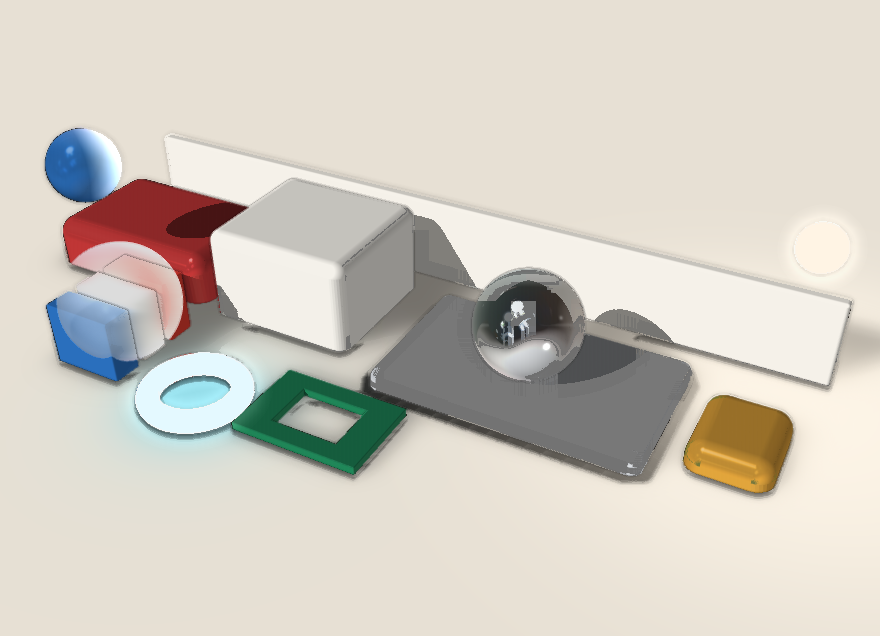
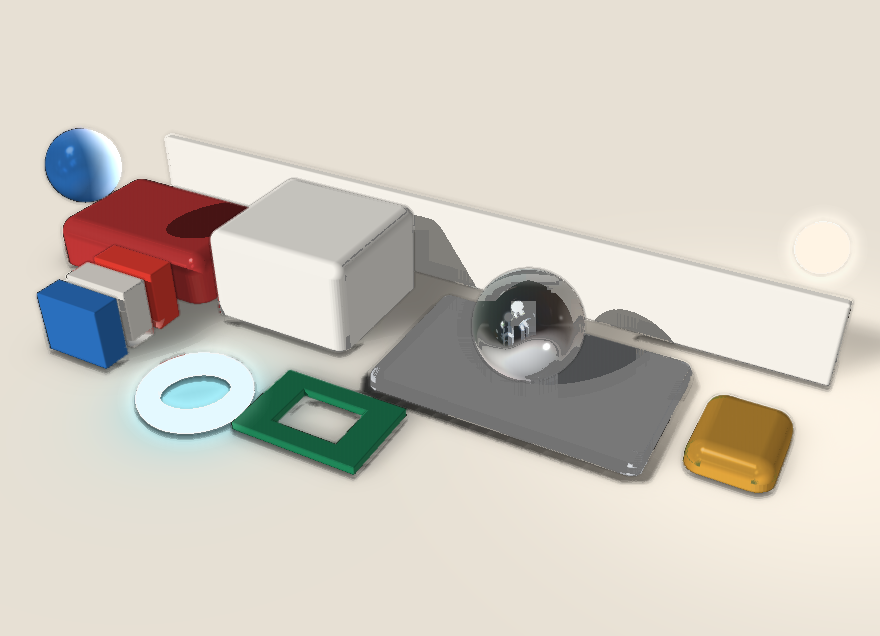
QUALITY-6 §9.2: shallow glass disk; flat overhead macbook.
Sphere refraction caused vertical bars; disk clears neon gate.
Deck depth 4 + orbit 4/38 foreshortens chrome lip.

Changed region(s): [[0.0307, 0.3585, 0.3068, 0.6274]]

diff --git a/scripts/gallery-3d.ts b/scripts/gallery-3d.ts
@@ -337,19 +337,20 @@ function buildPlates(): { sheet: string; title: string; cols: number; cells: Pla
           )
           .replace(
             '<rect id="stripe-red" x="210" y="200" width="36" height="78" depth="160" fill="#e23b2f" />',
-            '<rect id="stripe-red" x="200" y="210" width="70" height="28" depth="120" fill="#e23b2f" />',
+            '<rect id="stripe-red" x="178" y="200" width="70" height="28" depth="120" fill="#e23b2f" />',
           )
           .replace(
             '<rect id="stripe-white" x="246" y="200" width="36" height="78" depth="160" fill="#f7f4ee" />',
-            '<rect id="stripe-white" x="200" y="246" width="70" height="28" depth="120" fill="#e8e4dc" />',
+            '<rect id="stripe-white" x="178" y="236" width="70" height="28" depth="120" fill="#e8e4dc" />',
           )
           .replace(
             '<rect id="stripe-blue" x="282" y="200" width="36" height="78" depth="160" fill="#2a6fbe" />',
-            '<rect id="stripe-blue" x="200" y="282" width="70" height="28" depth="120" fill="#2a6fbe" />',
+            '<rect id="stripe-blue" x="178" y="272" width="70" height="28" depth="120" fill="#2a6fbe" />',
           )
           .replace(
             '<sphere id="glass" cx="264" cy="268" r="58" z="58" fill="#f4fffbcc" material="glass 0.07" />',
-            '<sphere id="glass" cx="248" cy="268" r="54" z="54" fill="#ffffff33" material="glass 0.18" />',
+            // Shallow glass disk left of neon — sphere refraction = vertical bars (§9.2).
+            '<circle id="glass" cx="214" cy="248" r="44" depth="8" z="4" fill="#ffffff55" material="glass 0.07" />',
           )
           .replace(
             '<circle id="gold" cx="780" cy="150" r="40" depth="160" fill="#e0a33a" material="plastic 0.22" />',

diff --git a/examples/macbook-pro.tsx b/examples/macbook-pro.tsx
@@ -12,13 +12,13 @@ const WELL = '#1a1c20'
 
 const W = 980
 const D = 670
-// Mid extrusion; tip camera more top-down so the front seam is foreshortened (§9.2).
-const T = 16
+// Near-flat deck — any tall front face reads as chrome lip (§9.2).
+const T = 4
 const TOP = T / 2
 
 const LID_H = 666
-const LID_T = 8
-const LID_TILT = 8
+const LID_T = 3
+const LID_TILT = 6
 
 const STAGE = { x: 310, groundY: 1044 }
 
@@ -209,12 +209,12 @@ function Lid() {
 export default (
   <layer width="1440" height="1800" background="#f6f3ee" color="#1c1916" min-font="10" noise="0.012">
     <rect x="0" y="0" width="1440" height="1800" fill="linear-gradient(180deg, #f7f4ef 0%, #efe8df 100%)" />
-    <layer width="1440" height="1800" camera="fov 24, orbit 8 32" light="world" grade="matte 0.95">
-      {/* Top-down foreshortens the front lip; soft ground hides jagged dashes (§9.2). */}
-      <light type="hemisphere" intensity="0.88" color="#fff8f0" ground-color="#d2ccc4" />
+    <layer width="1440" height="1800" camera="fov 22, orbit 4 38" light="world" grade="matte 0.98">
+      {/* Near-overhead + flat deck; kill specular lip (§9.2). */}
+      <light type="hemisphere" intensity="0.95" color="#fff8f0" ground-color="#d2ccc4" />
       <Lid />
       <Base />
-      <ground y={STAGE.groundY} rotateX="90" fill="#efe8df" shadow-blur="110" shadow-opacity="0.16" />
+      <ground y={STAGE.groundY} rotateX="90" fill="#efe8df" shadow-blur="120" shadow-opacity="0.12" />
     </layer>
     <layer x="80" y="66">
       <p style="font-family:Inter; font-size:13px; font-weight:700; letter-spacing:6.2px; color:#c88255">PRO PERFORMANCE · M4 MAX</p>
